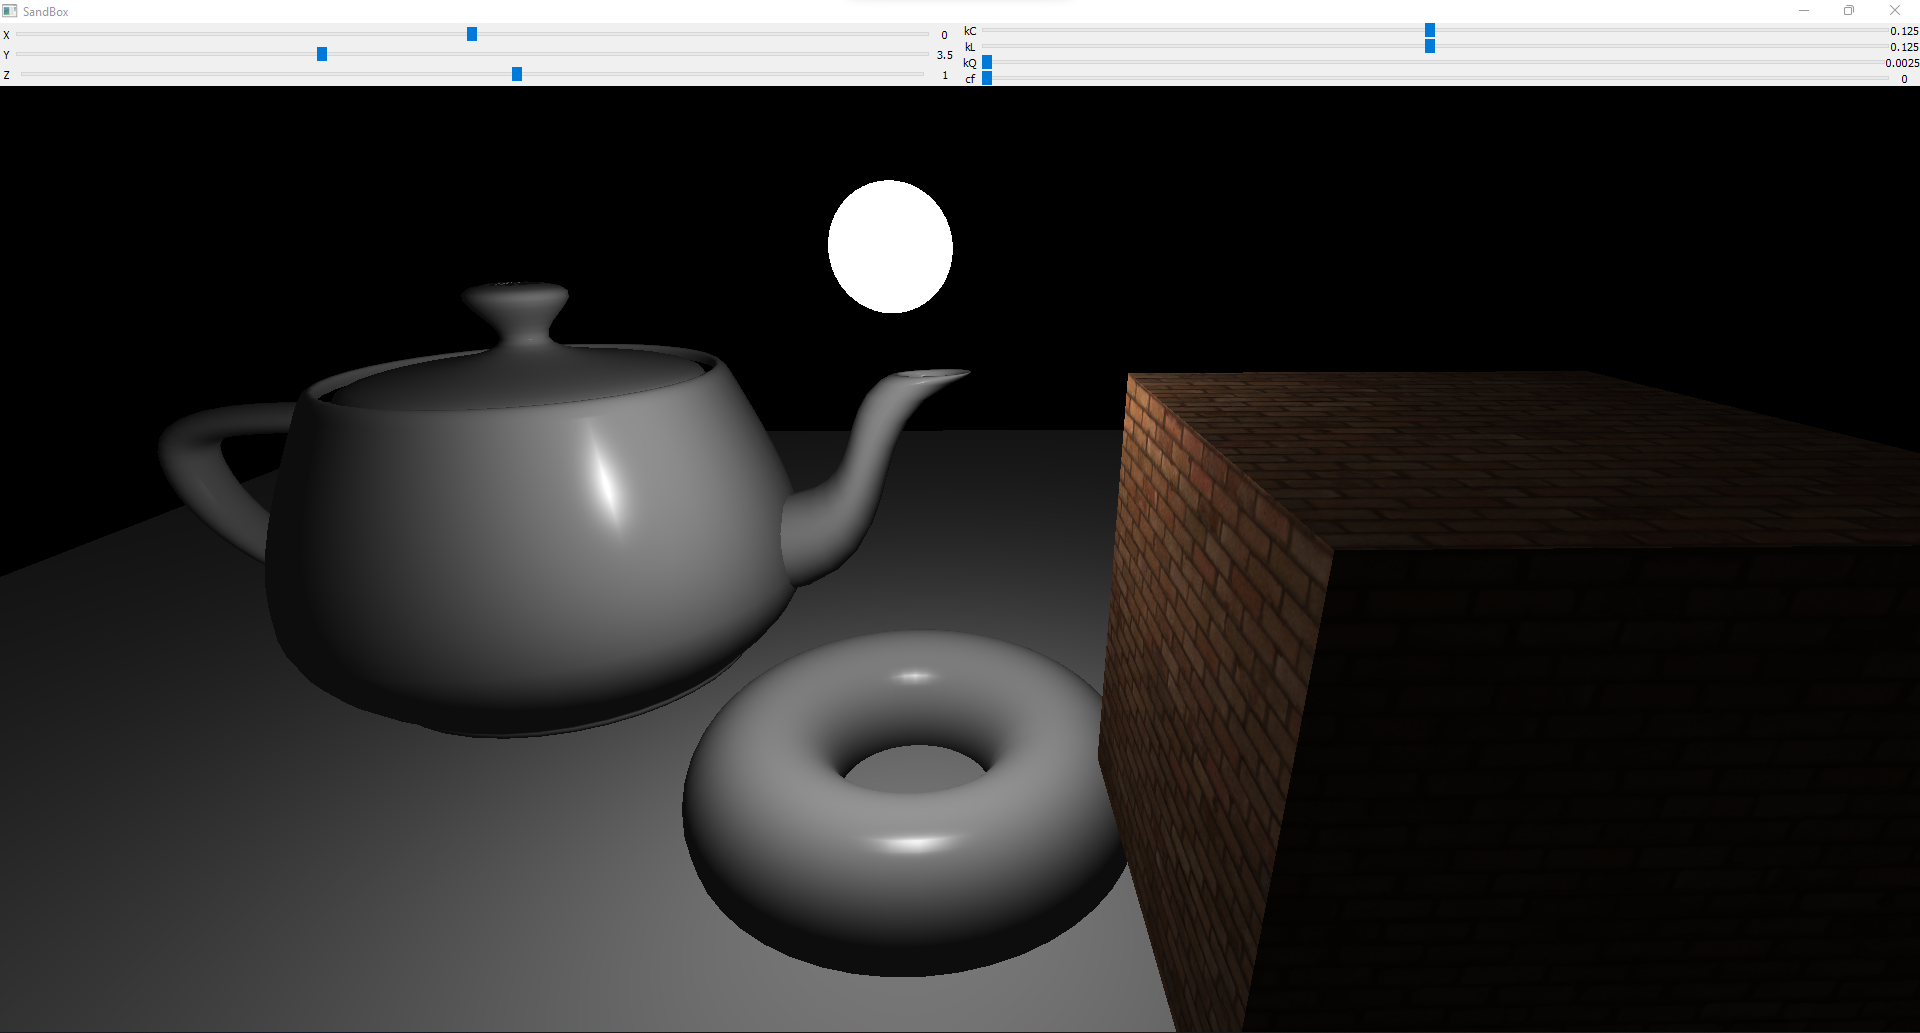
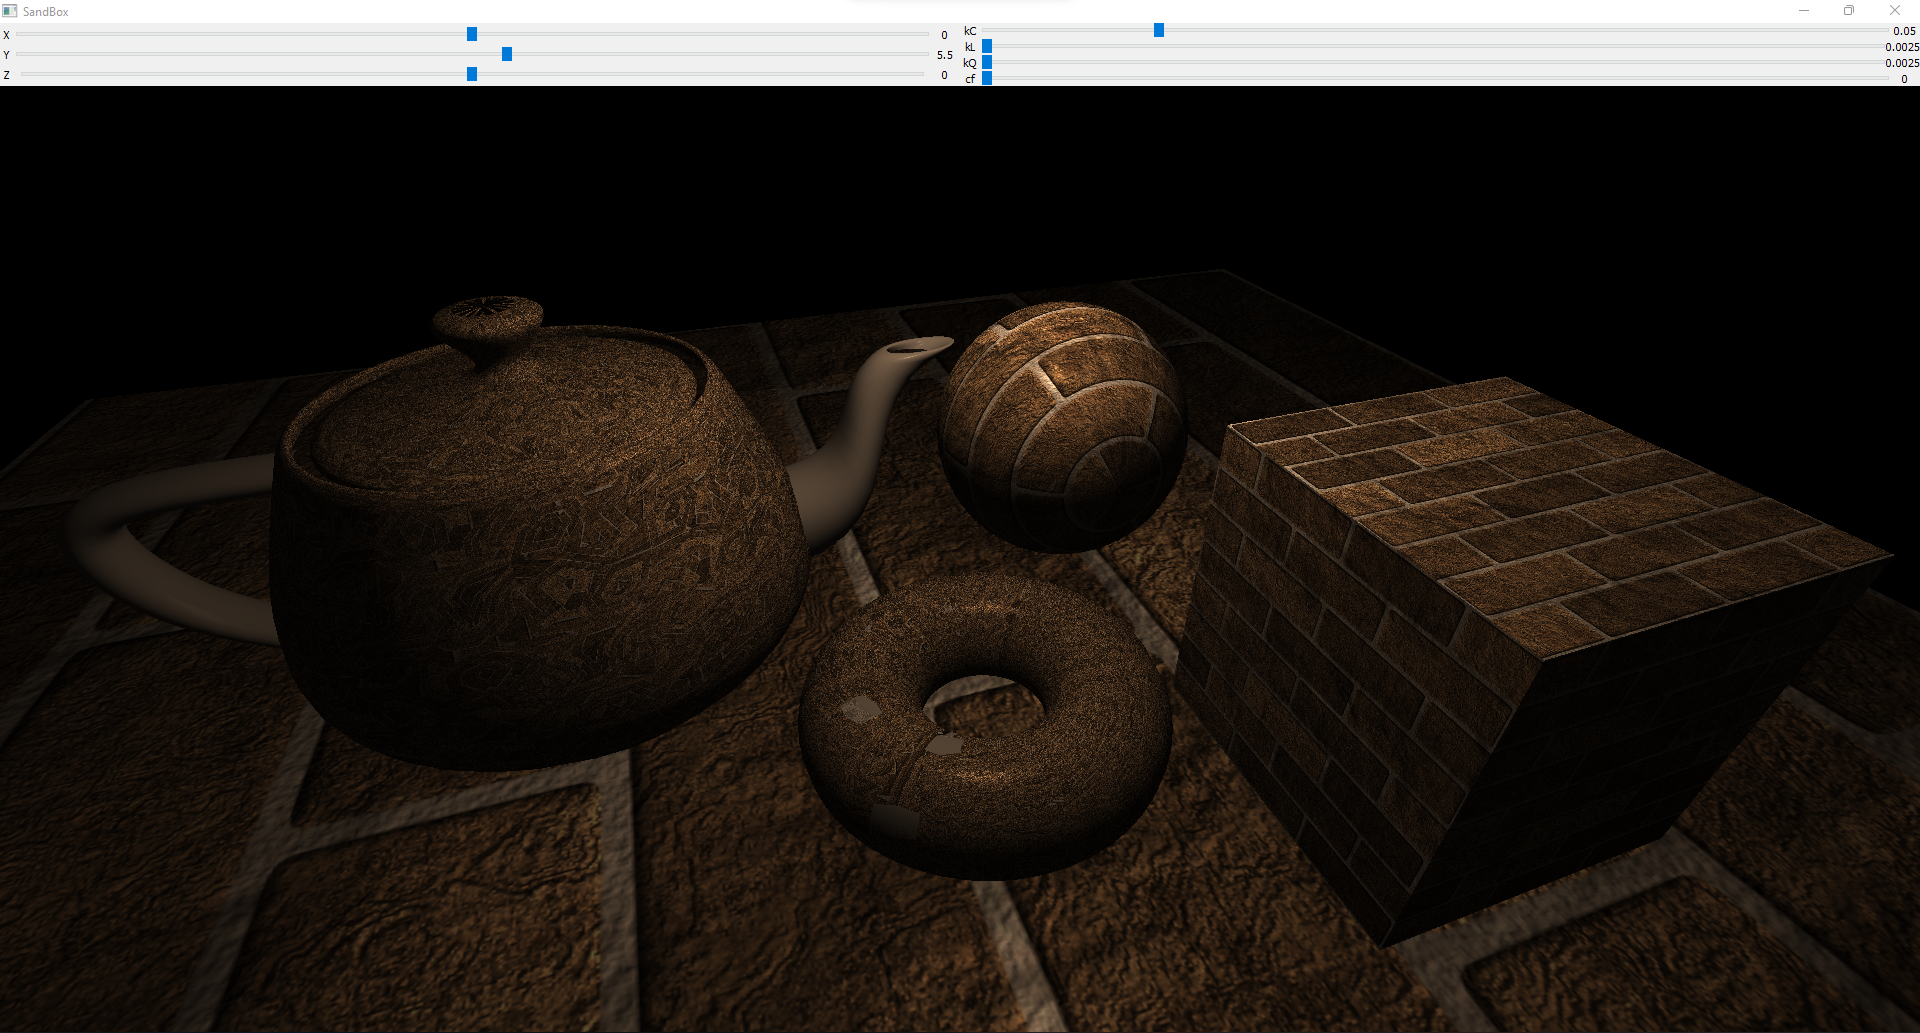
Moved the sphere for a new screenshot

diff --git a/source/Renderer.cpp b/source/Renderer.cpp
@@ -307,7 +307,7 @@ void Renderer::draw()
 	m_pMesh3->renderMesh();
 
 	//Shape-6|sphere
-	shModelMtx = glm::translate(glm::vec3(4.0f, 2.0f, -1.0f));//model to world
+	shModelMtx = glm::translate(glm::vec3(1.0f, 2.0f, -1.0f));//model to world
 	MVPMtx = VPMtx * shModelMtx;//model to projection
 
 	//Set Uniform
